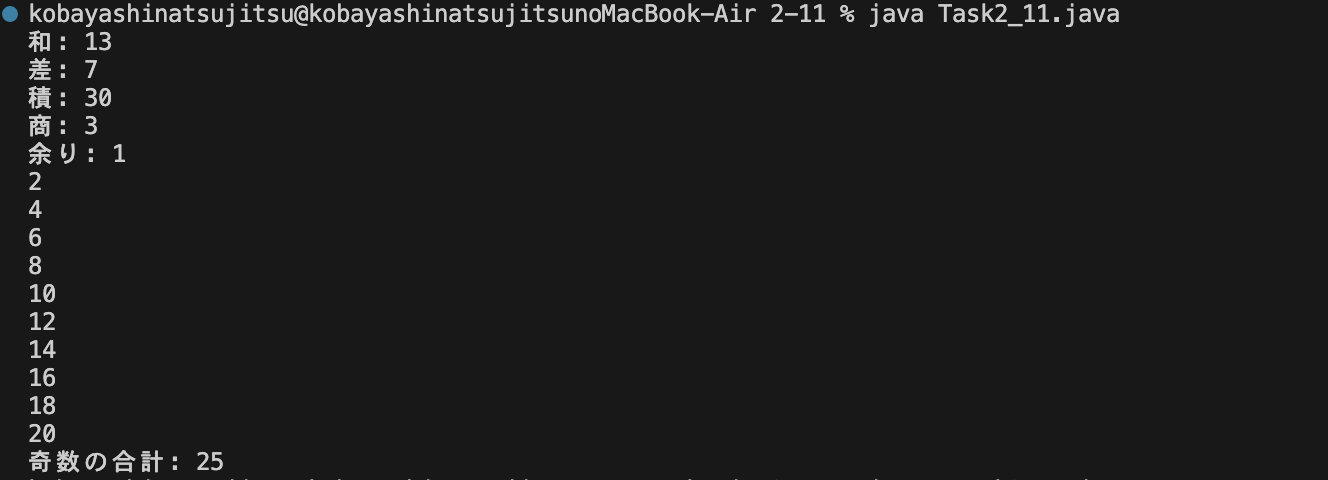
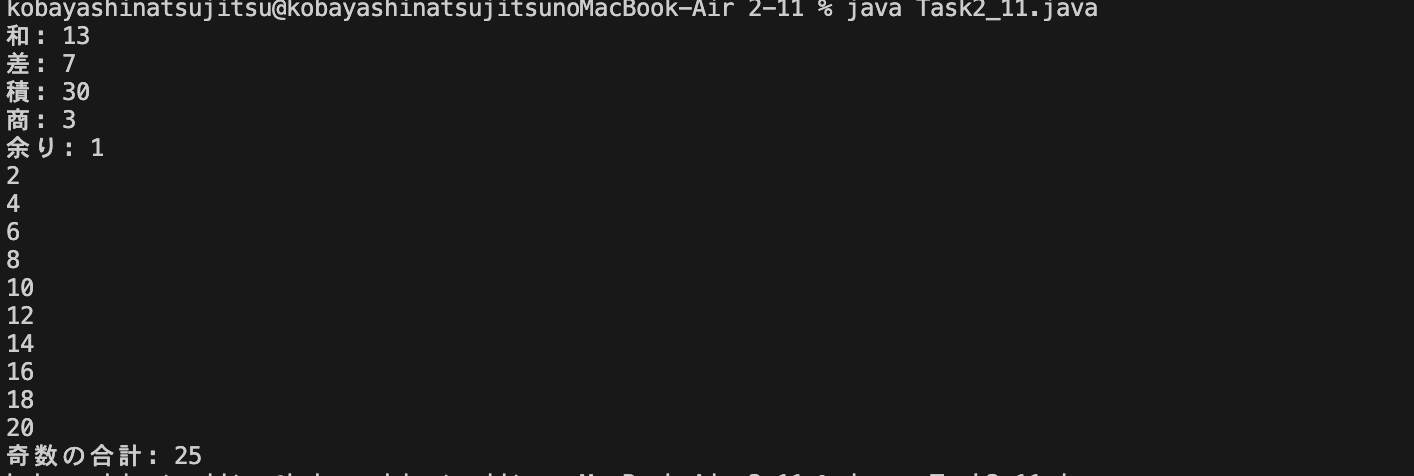
2-11

Changed region(s): [[0.0, 0.0, 0.8645, 1.0]]

diff --git a/Study/2-11/Task2_11.java b/Study/2-11/Task2_11.java
@@ -56,7 +56,7 @@ public class Task2_11 {
 
     for (int i = 0; i < numbers.length; i++) {
     //問題③ 奇数かどうかの判定をするために、for文で取得したnumberを2で割り、余りが0にならないような条件文(if文)を記載して下さい。
-        if(numbers[i] % 2 == 1){
+        if(numbers[i] % 2 != 0){
         add += numbers[i];
         }
     }
